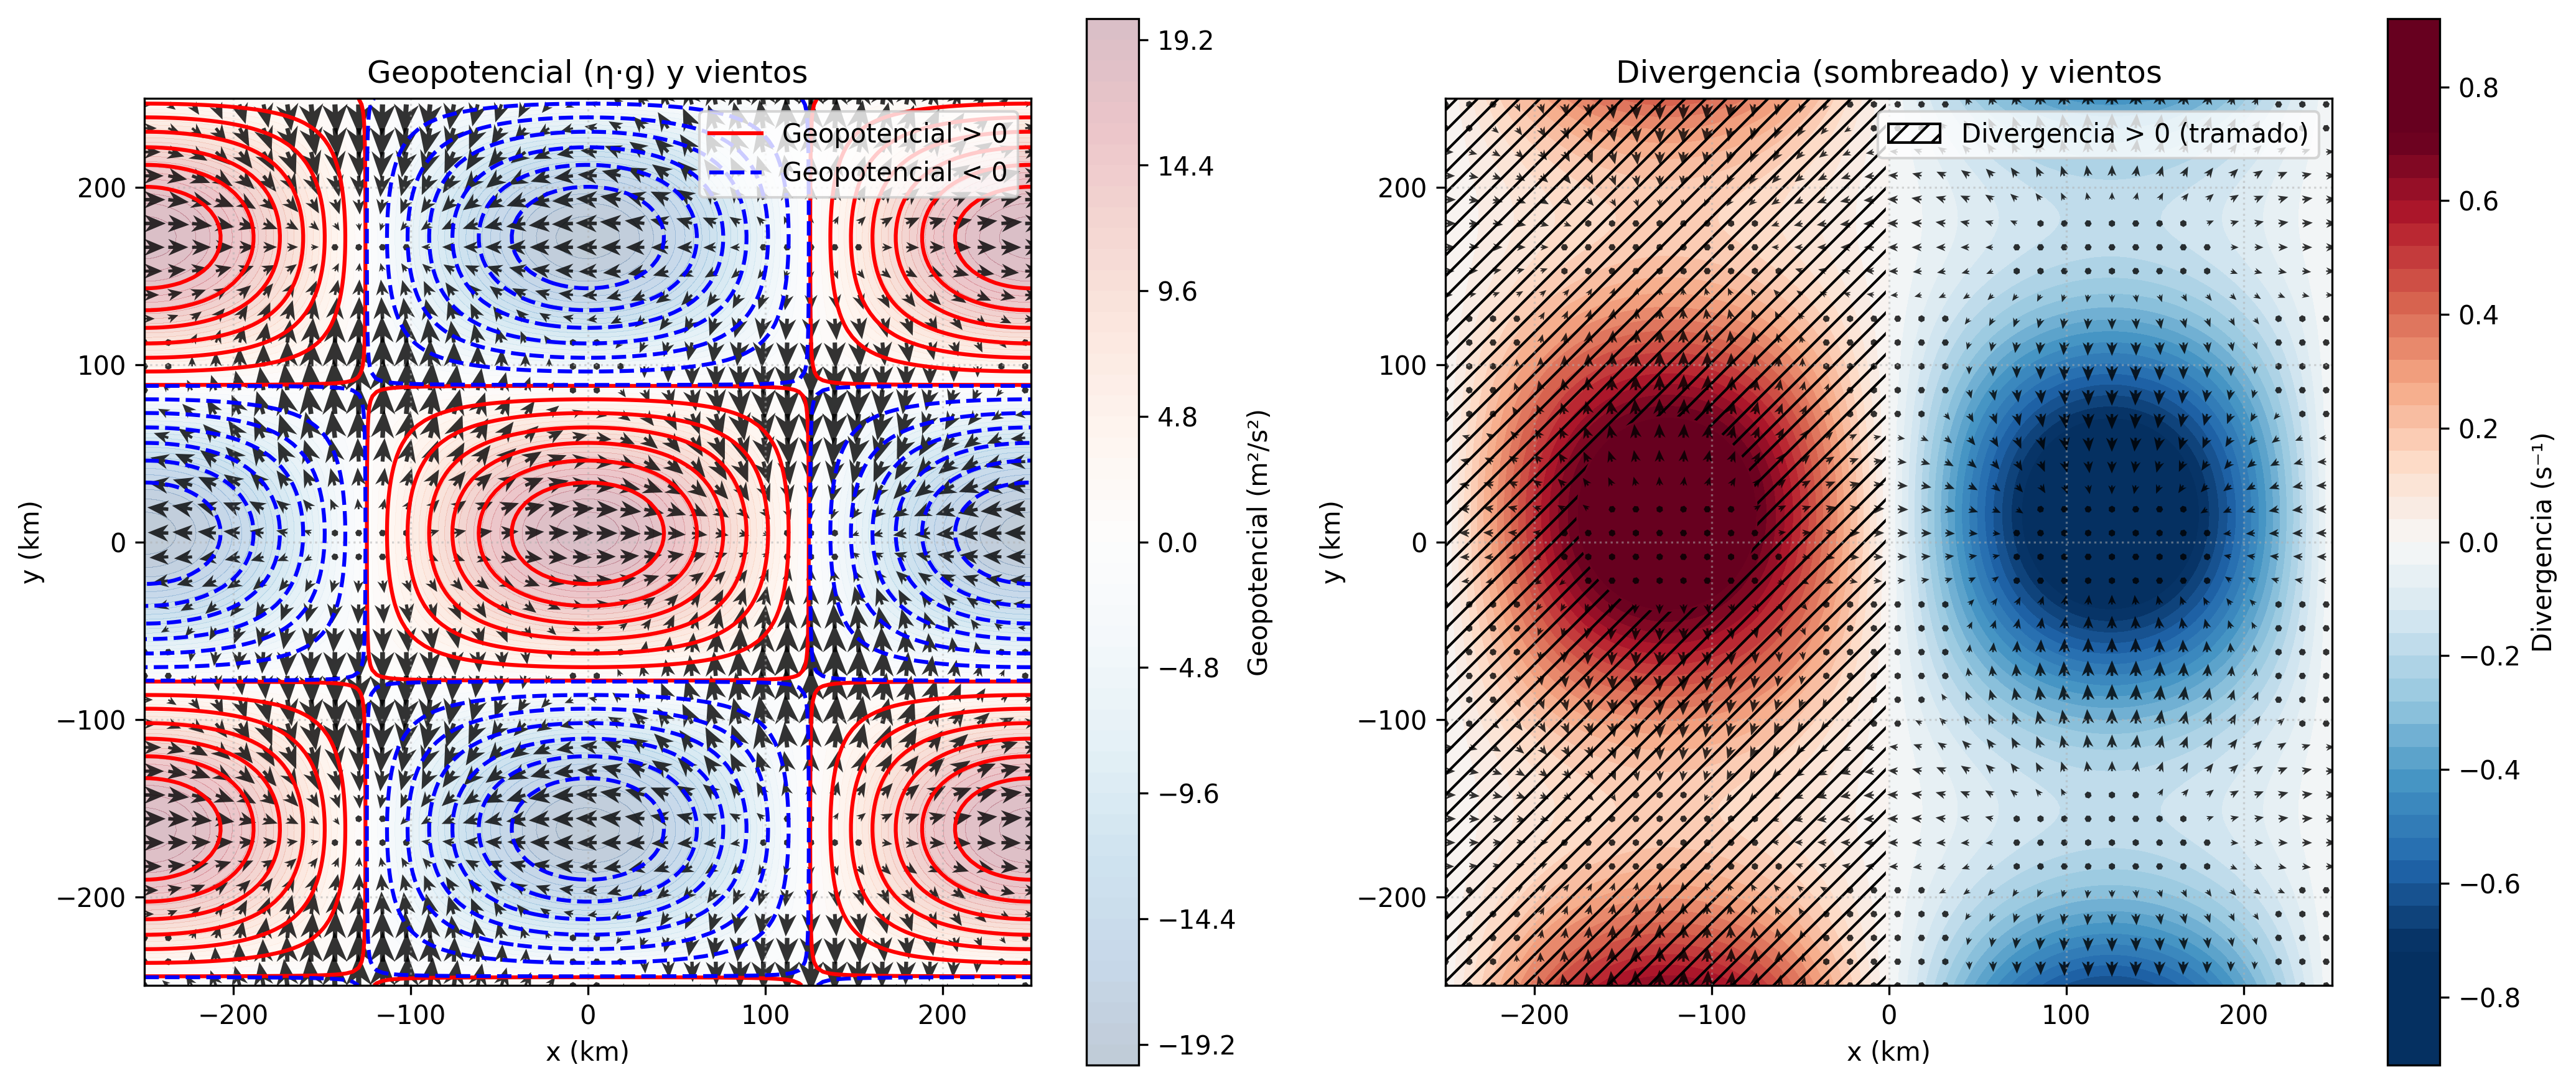
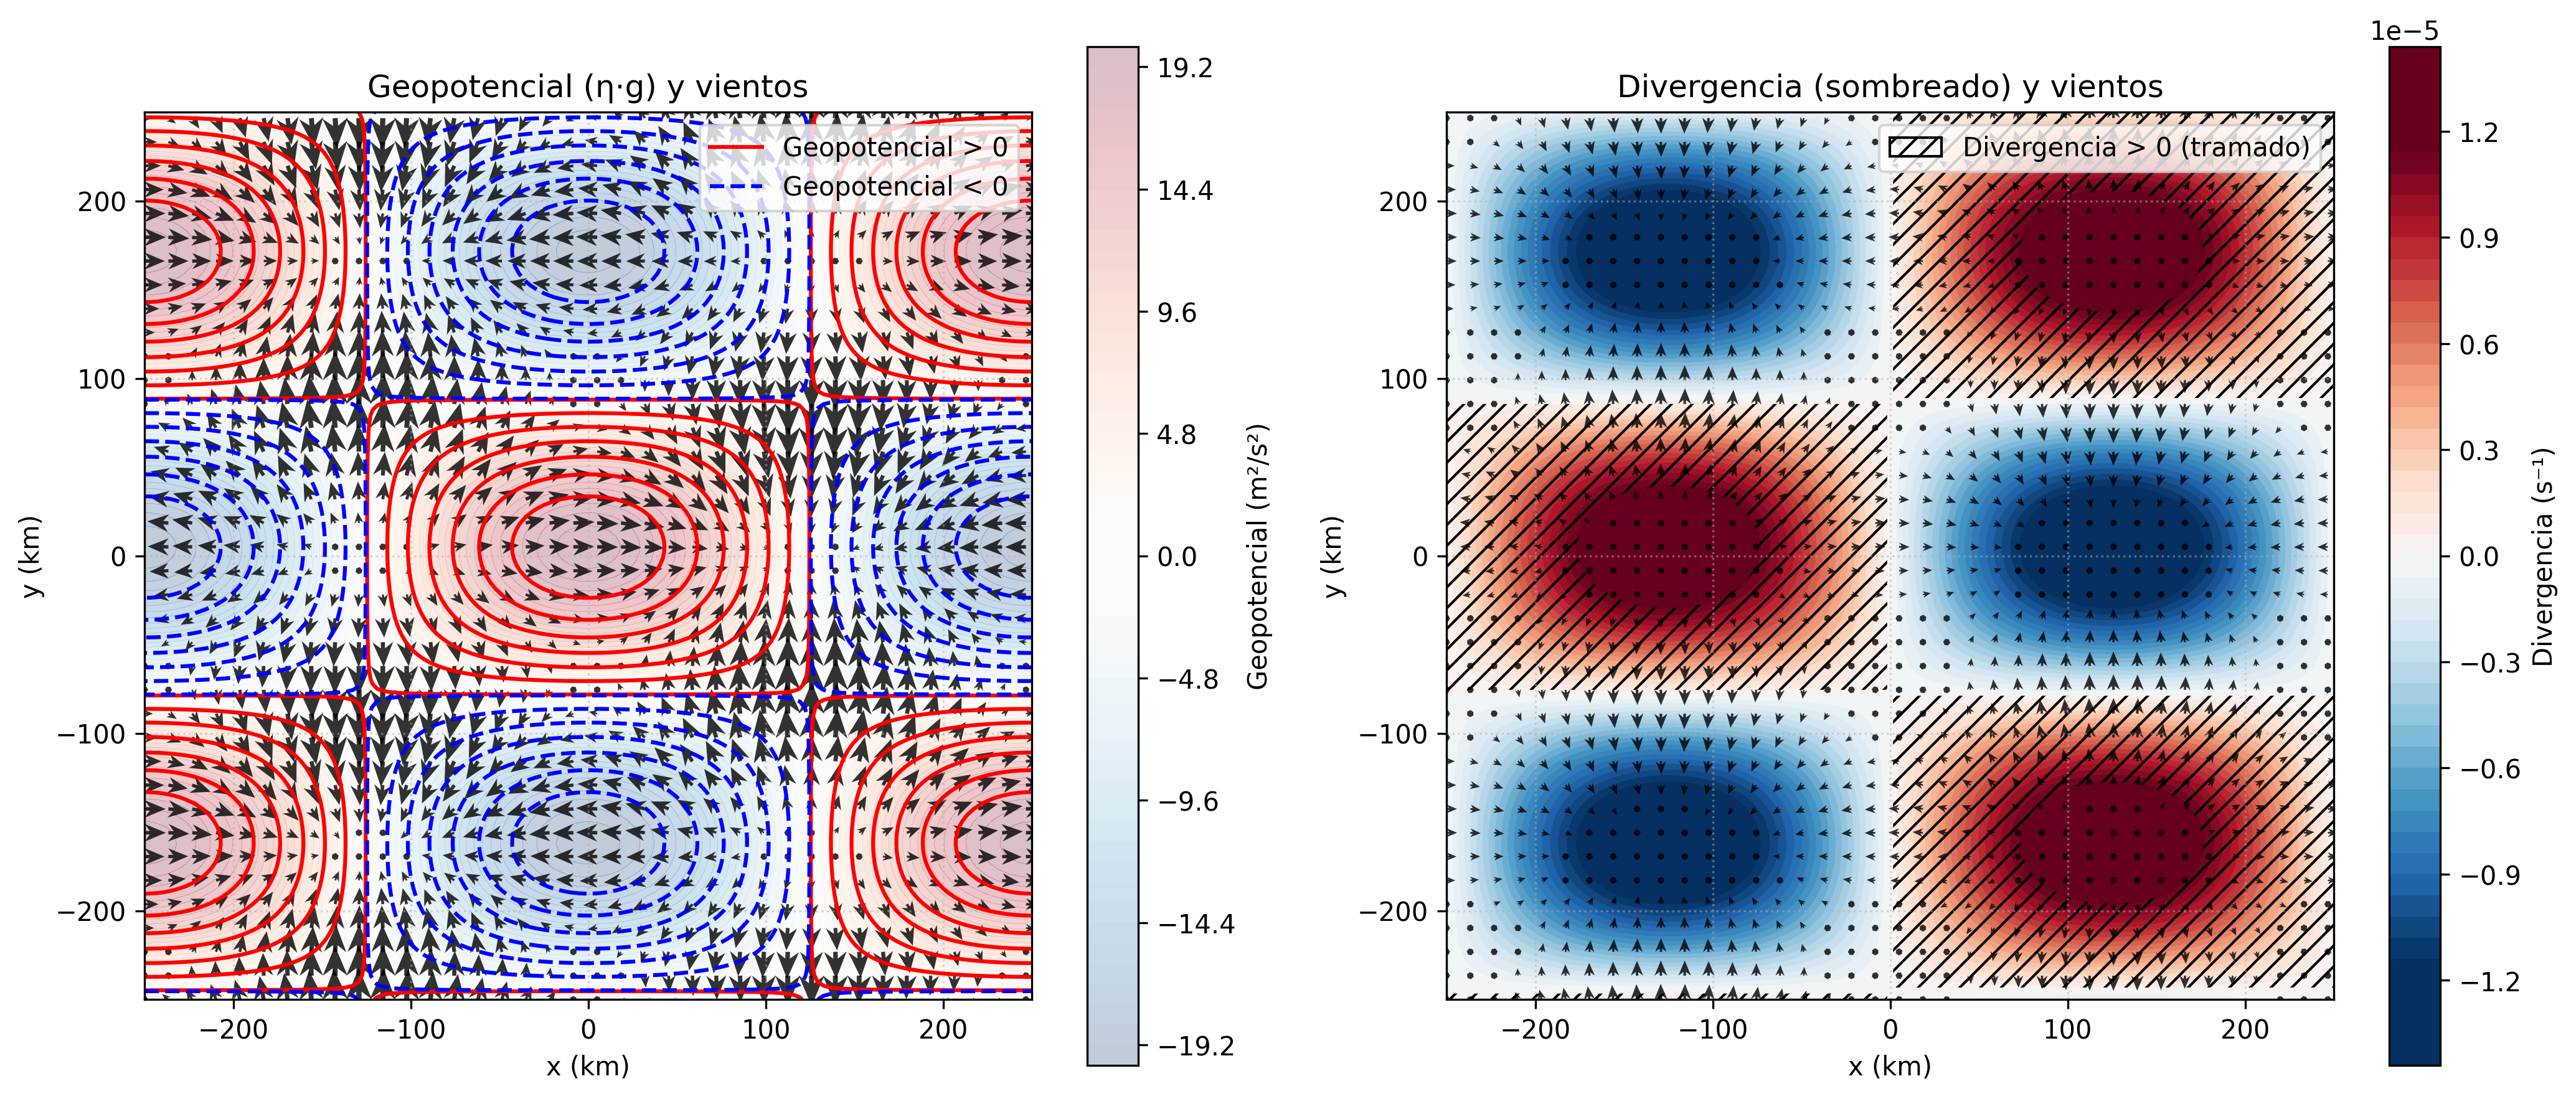
Correct divergence computation in python script

diff --git a/channel_waves/poincare_geopot_div_wind_visible.py b/channel_waves/poincare_geopot_div_wind_visible.py
@@ -41,9 +41,9 @@ geopot = eta * g
 u = amp / H * (c**2 * k / omega * np.cos(l*Y) - L_y * f0 / (nn * np.pi) * np.sin(l*Y)) * np.cos(fase)
 v = -amp / H * L_y / (omega * nn * np.pi) * (f0**2 + (c * nn * np.pi / L_y)**2) * np.sin(l*Y) * np.sin(fase)
 
-div = -amp / H * (c**2 * k / omega * np.cos(l*Y) -
-                  L_y * f0 / (nn * np.pi) * np.sin(l*Y) +
-                  L_y / (omega * nn * np.pi) * (f0**2 + (c * nn * np.pi / L_y)**2)) * np.sin(fase)
+div = -amp / H * ( (c**2 * k / omega * np.cos(l*Y) -
+                  L_y * f0 / (nn * np.pi) * np.sin(l*Y) ) * k +
+                  L_y / (omega * nn * np.pi) * (f0**2 + (c * nn * np.pi / L_y)**2) * l * np.cos(l*Y)) * np.sin(fase)
 
 # ============================================================================
 # 4. FIGURA CON DOS PANELES